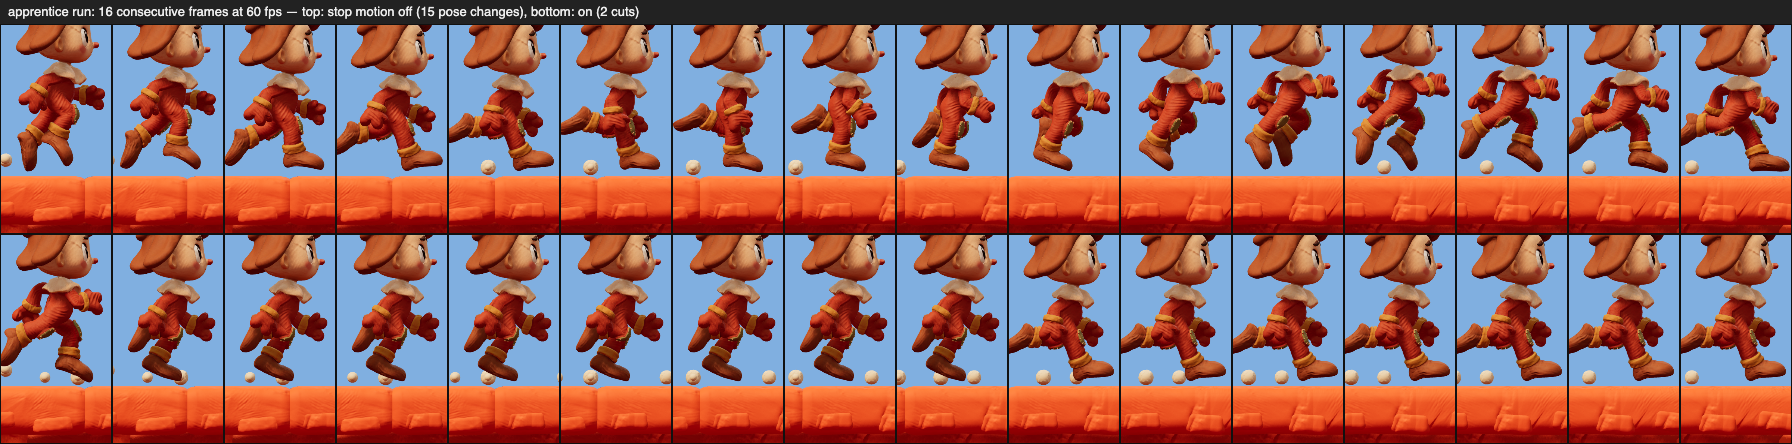
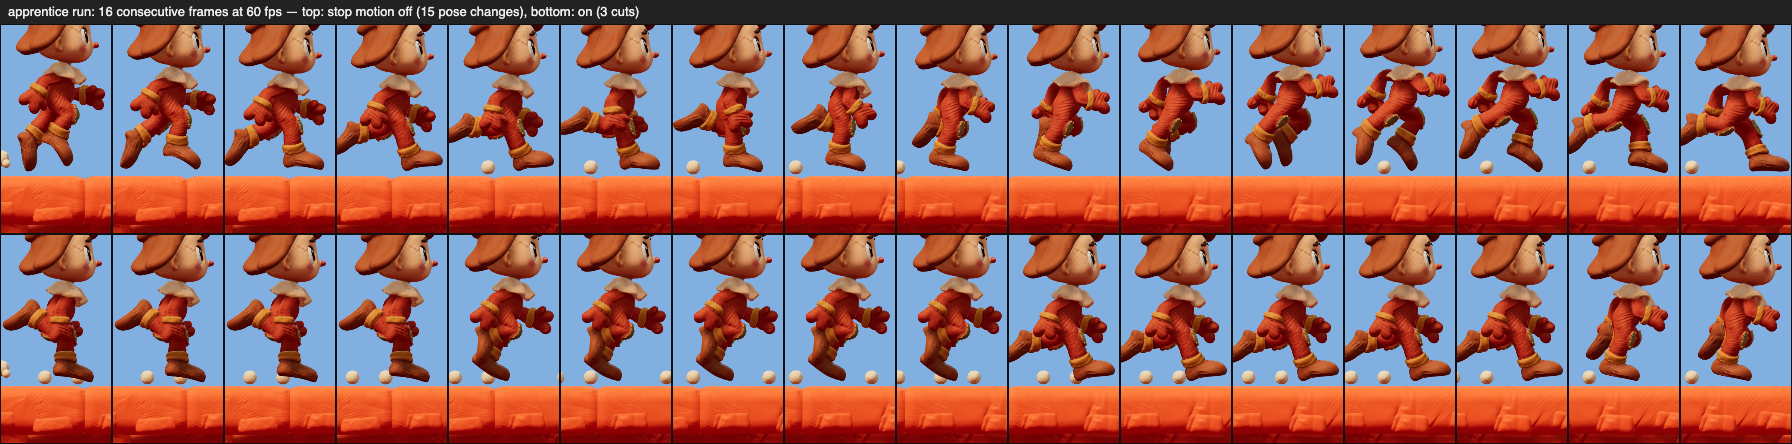
Bake the tuned stop-motion look, and retire Hold position
Tuned by eye in the panel and now the defaults: twelve exposures a second (on
twos — four frames held at sixty, the fifth spent), boil six thousandths of a
unit, wobble three, flicker four per cent, creatures on. Hold position goes —
the switch and the branch in placePuppet — a held pose on a smoothly moving
body is what keeps the game readable, so a puppet's position is never held;
a retired key in an older save is dropped on load. The sheets are retaken at
the new period: fifteen pose changes off, three cuts on, over sixteen frames.

Changed region(s): [[0.0, 0.527, 1.0, 0.8784], [0.0, 0.3514, 0.0312, 0.3806]]

diff --git a/dist/stop-motion.js b/dist/stop-motion.js
@@ -1,17 +1,19 @@
-// Clay stop-motion is shot on threes here: eight poses a second, each held
+// Clay stop-motion is shot on twos here: twelve poses a second, each held
 // until the next, with nothing in between. That hold is the whole tell — a
 // puppet that eases is a cartoon; one that cuts is clay. The simulation, the
 // camera and where every puppet stands stay smooth, because the game still has
 // to read at sixty; only the poses step, and every puppet on the set cuts to
 // its next pose on the same frame, as it would under one camera.
-export const STOP_MOTION_FPS=8;
+export const STOP_MOTION_FPS=12;
 export const BOIL=.006;
 
-// What the Settings panel can turn while the game runs, with the values the
-// look was tuned at. Amounts are kept in whole numbers a slider can show —
+// What the Settings panel can turn while the game runs, at the values the look
+// was tuned to by eye: twelve exposures, the prints crawling six thousandths of
+// a unit, each puppet landing three thousandths off its mark, the lamp four per
+// cent unsteady. Amounts are kept in whole numbers a slider can show —
 // thousandths of a world unit for the boil and the wobble, a percentage for
 // the flicker — and become the clock's units in applyStopMotionTuning.
-export const TUNING_DEFAULTS=Object.freeze({fps:STOP_MOTION_FPS,boil:Math.round(BOIL*1000),creatures:true,hold:false,wobble:0,flicker:0});
+export const TUNING_DEFAULTS=Object.freeze({fps:STOP_MOTION_FPS,boil:Math.round(BOIL*1000),creatures:true,wobble:3,flicker:4});
 export const TUNING_RANGES=Object.freeze({fps:[4,24],boil:[0,20],wobble:[0,30],flicker:[0,8]});
 export function normalizeTuning(saved){
   const t={...TUNING_DEFAULTS};
@@ -21,7 +23,6 @@ export function normalizeTuning(saved){
       if(Number.isFinite(value))t[key]=Math.min(hi,Math.max(lo,Math.round(value)));
     }
     if(typeof saved.creatures==='boolean')t.creatures=saved.creatures;
-    if(typeof saved.hold==='boolean')t.hold=saved.hold;
   }
   return t;
 }
@@ -33,12 +34,12 @@ export function normalizeTuning(saved){
 // flicker hash on. The tunables ride on it too, so every animator that holds
 // the clock sees a slider move on its next frame.
 export const createPuppetClock=()=>({on:false,held:0,frame:0,step:0,stepped:false,
-  fps:STOP_MOTION_FPS,boil:BOIL,creatures:true,hold:false,wobble:0,flicker:0,lit:false});
+  fps:STOP_MOTION_FPS,boil:BOIL,creatures:true,wobble:TUNING_DEFAULTS.wobble/1000,flicker:TUNING_DEFAULTS.flicker/100,lit:false});
 
 // Put the panel's numbers on the running world's clock.
 export function applyStopMotionTuning(w,tuning){
   const t=normalizeTuning(tuning),c=w.puppetClock??=createPuppetClock();
-  c.fps=t.fps;c.boil=t.boil/1000;c.creatures=t.creatures;c.hold=t.hold;c.wobble=t.wobble/1000;c.flicker=t.flicker/100;
+  c.fps=t.fps;c.boil=t.boil/1000;c.creatures=t.creatures;c.wobble=t.wobble/1000;c.flicker=t.flicker/100;
   return c;
 }
 
@@ -48,8 +49,9 @@ const stepping=(clock,creature)=>!!clock?.on&&(!creature||clock.creatures);
 
 // Advance the shared clock by this frame's dt. With the setting off the poses
 // take dt as they always did. With it on, nothing moves until an exposure's
-// worth of time has built up, then all of it is spent at once — the pose lands
-// on the real elapsed time, so a held puppet never falls behind the world.
+// worth of time (a twelfth of a second, as tuned) has built up, then all of it
+// is spent at once — the pose lands on the real elapsed time, so a held puppet
+// never falls behind the world.
 export function tickPuppets(w,dt){
   const c=w.puppetClock??=createPuppetClock();
   c.on=!!w.stopMotion;
@@ -81,20 +83,16 @@ export function heldSample(clock,view,step,read,creature=true){
 const hash=(n,k)=>{const x=Math.sin(n*12.9898+k*78.233)*43758.5453;return x-Math.floor(x);};
 const seed=name=>{let h=0;for(const ch of String(name??''))h=(h*31+ch.charCodeAt(0))%1000;return h;};
 
-// Where a puppet is drawn. Its position is the simulation's, smooth, unless
-// Hold position is on — then it too is read at exposures, so the whole puppet
-// jumps from pose to pose the way a photographed one does. The wobble is the
-// registration error of a real set: a puppet never lands back in exactly the
+// Where a puppet is drawn: the simulation's position, smooth — a held pose on a
+// moving body is what keeps the game readable — plus the wobble, the
+// registration error of a real set. A puppet never lands back in exactly the
 // same place, so each exposure carries its own small offset, constant until
-// the next. Both are only on the clock; off it this returns the live point.
+// the next. Only on the clock; off it this is the live point.
 export function placePuppet(clock,view,x,y,creature=false){
   const at=view.placed??={x:0,y:0,frame:-1,wx:0,wy:0};
-  if(!stepping(clock,creature)){at.x=x;at.y=y;at.wx=at.wy=0;at.frame=-1;return at;}
-  if(!clock.hold||clock.stepped||at.frame<0){at.x=x;at.y=y;}
-  if(clock.wobble>0){
-    if(at.frame!==clock.frame){const n=clock.frame+seed(view.id??'hero');at.wx=(hash(n,4)-.5)*2*clock.wobble;at.wy=(hash(n,5)-.5)*2*clock.wobble;}
-  }else at.wx=at.wy=0;
-  at.frame=clock.frame;
+  at.x=x;at.y=y;
+  if(!stepping(clock,creature)||clock.wobble<=0){at.wx=at.wy=0;at.frame=-1;return at;}
+  if(at.frame!==clock.frame){const n=clock.frame+seed(view.id??'hero');at.wx=(hash(n,4)-.5)*2*clock.wobble;at.wy=(hash(n,5)-.5)*2*clock.wobble;at.frame=clock.frame;}
   return {x:at.x+at.wx,y:at.y+at.wy,frame:at.frame};
 }
 

diff --git a/dist/title-menu.js b/dist/title-menu.js
@@ -64,8 +64,7 @@ function tuner(key,label,iconName,value,unit){
 // Everything the stop-motion look is made of, unfolded under its switch while
 // it is on: exposures a second; the boil of the prints and the wobble of the
 // puppet's registration, both in thousandths of a world unit; the lamp's
-// flicker in per cent; and whether the creatures step and whether a puppet's
-// position holds between exposures along with its pose.
+// flicker in per cent; and whether the creatures step too.
 export function stopMotionTuningMarkup(tuning){
   const t=normalizeTuning(tuning);
   return `<div class="title-tuning" data-tuning="stopmotion">
@@ -74,7 +73,6 @@ export function stopMotionTuningMarkup(tuning){
       ${tuner('wobble','Wobble','move',t.wobble,'‰')}
       ${tuner('flicker','Flicker','sun',t.flicker,'%')}
       <button class="title-setting" data-action="settings-stopmotion-creatures" role="switch" aria-checked="${t.creatures}" aria-label="Creatures step too">${icon('bug')}<span>Creatures too</span><strong>${t.creatures?'On':'Off'}</strong></button>
-      <button class="title-setting" data-action="settings-stopmotion-hold" role="switch" aria-checked="${t.hold}" aria-label="Hold position between exposures">${icon('grab')}<span>Hold position</span><strong>${t.hold?'On':'Off'}</strong></button>
     </div>`;
 }
 
@@ -89,7 +87,7 @@ export function settingsMarkup(soundEnabled,fullscreenActive,{music=.55,effects=
     <div class="title-settings">
       <button class="title-setting" data-action="settings-sound" role="switch" aria-checked="${soundEnabled}" aria-label="Game sound">${icon(soundEnabled?'volume-2':'volume-x')}<span>Sound</span><strong>${soundEnabled?'On':'Off'}</strong></button>
       <button class="title-setting" data-action="settings-rumble" role="switch" aria-checked="${rumble}" aria-label="Vibration and controller rumble">${icon('move-vertical')}<span>Rumble</span><strong>${rumble?'On':'Off'}</strong></button>
-      <button class="title-setting" data-action="settings-stopmotion" role="switch" aria-checked="${stopMotion}" aria-label="Stop-motion animation, eight poses a second">${icon('camera')}<span>Stop motion</span><strong>${stopMotion?'On':'Off'}</strong></button>
+      <button class="title-setting" data-action="settings-stopmotion" role="switch" aria-checked="${stopMotion}" aria-label="Stop-motion animation, twelve poses a second">${icon('camera')}<span>Stop motion</span><strong>${stopMotion?'On':'Off'}</strong></button>
       ${stopMotion?stopMotionTuningMarkup(stopMotionTuning):''}
       <button class="title-setting" data-action="fullscreen" data-fullscreen="label" aria-pressed="${fullscreenActive}">${icon(fullscreenActive?'minimize':'expand')}<span>${fullscreenActive?'Exit fullscreen':'Fullscreen'}</span></button>
       <button class="title-setting" data-action="help">${icon('gamepad-2')}<span>How to play</span></button>

diff --git a/dist/hero.js b/dist/hero.js
@@ -230,7 +230,7 @@ export function animateHero(w,game,dt,alpha=1){
   // spring, the lean — takes this one step, so under stop motion the whole pose
   // holds and cuts together rather than the clips stepping inside a body that
   // still glides. The root's position is set from the simulation and stays smooth,
-  // unless the Hold position setting asks for it to step too (placePuppet).
+  // give or take the registration wobble each exposure (placePuppet).
   const step=paused?0:puppetStep(w.puppetClock,dt),air=!p.groundId;
   // Drawn `alpha` of the way between the last two ticks (camera.js `between`),
   // as the decks are, so a rider and their deck move as one.
@@ -290,7 +290,7 @@ export function animateHero(w,game,dt,alpha=1){
     c.mixer.update(step);
     if(!paused)boilPuppet(c.asset,w.puppetClock);
     // A small foot-anchored response complements, rather than distorts, the rig.
-    // The spring is stiff enough that one Euler step of an eighth of a second
+    // The spring is stiff enough that one Euler step of a twelfth of a second
     // — a stop-motion exposure — rings it against its clamp for good, so it
     // is walked in the simulation's own ticks however long the frame held.
     for(let left=step;left>0;left-=SPRING_DT){

diff --git a/dist/app.js b/dist/app.js
@@ -403,12 +403,11 @@ $('dialog-content').addEventListener('click',e=>{
     if(saved.stopMotion)b.insertAdjacentHTML('afterend',stopMotionTuningMarkup(saved.stopMotionTuning));
     icons();
   }
-  if(a==='settings-stopmotion-creatures'||a==='settings-stopmotion-hold'){
-    const key=a==='settings-stopmotion-creatures'?'creatures':'hold',t=saved.stopMotionTuning;
-    t[key]=!t[key];if(world)applyStopMotionTuning(world,t);persist();
-    b.setAttribute('aria-checked',String(t[key]));
-    b.innerHTML=key==='creatures'?`${icon('bug')}<span>Creatures too</span><strong>${t.creatures?'On':'Off'}</strong>`
-      :`${icon('grab')}<span>Hold position</span><strong>${t.hold?'On':'Off'}</strong>`;icons();
+  if(a==='settings-stopmotion-creatures'){
+    const t=saved.stopMotionTuning;
+    t.creatures=!t.creatures;if(world)applyStopMotionTuning(world,t);persist();
+    b.setAttribute('aria-checked',String(t.creatures));
+    b.innerHTML=`${icon('bug')}<span>Creatures too</span><strong>${t.creatures?'On':'Off'}</strong>`;icons();
   }
   if(a==='settings-character')chooseCharacter(b.dataset.character);
   if(a==='help')help();

diff --git a/README.md b/README.md
@@ -32,7 +32,7 @@ Seven supplied models were about 95% texture, and are repacked with the same met
 
 **Gamepads and haptics are supported.** A standard-mapping controller steers with the left stick or d-pad, jumps on A/Y, stomps on B/X/RT/d-pad-down and pauses on Start; on the title, A or Start begins. Keyboard keeps priority, so a stick resting off centre can never fight a held key. Phone vibration and controller rumble fire from the same event bus the particles use, scaled by impact and rate-limited so a coin run cannot stack into one buzz — `dist/gamepad.js`, `dist/haptics.js`, covered by `tests/gamepad.mjs`. **Music and effects now have independent sliders**, on their own Web Audio buses, so the soundtrack can be silenced without losing the landing and pickup cues; music defaults below effects. Rumble has its own switch.
 
-**Stop motion is a switch in the same panel, off until chosen.** Clay animation is shot on threes here — eight poses a second, each held until the next — and that hold is what makes a puppet read as clay rather than cartoon. With the switch on, one clock on the world (`dist/stop-motion.js`) holds every puppet's animation time and spends it whole once an eighth of a second has built up, so the hero and every creature — claylings, bats, spitters, drifters, spore puffs and the dream's own — cut to their next pose on the same frame; the hero's turn, gait, crossfades, impact squash and lean all take that one step, so the whole figure holds and cuts together, and a creature whose pose reads the simulation directly (a drifter's roll, a spitter's wind-up, a puff's leap) reads it as it stood at the last exposure. The simulation, the camera and where each puppet stands stay smooth, because the game still has to read at sixty. On every exposure each puppet's clay relief is nudged a hair through the offset its shader already reads, so its fingerprints crawl between frames the way a handled puppet's do; off, the offsets go back and every frame eases as before. The impact squash spring is walked in simulation ticks however long the frame held — fed the whole eighth in one Euler step it rang against its clamp for ever. The title's hero and the completion stage expose on the same clock. **While the switch is on, the look's tuning unfolds under it**: exposures a second (4–24), the boil and a registration wobble (both in thousandths of a world unit; the wobble is a fresh small offset of each puppet per exposure, nought by default), the lamp's flicker (per cent of the theme's key light per exposure, nought by default), and two switches — whether the creatures step too, and whether a puppet's position holds between exposures along with its pose. Every number rides on the shared clock, so a slider moves the running world on its next frame, and all of it saves on the device. `tests/stop-motion.mjs` holds the clock to seven frames held and the eighth spent, every knob reaching the clock, the hero's pose, blends and skin cutting together while its feet keep moving, a landing that settles, and off being exactly what it was; `node scripts/review-stop-motion.cjs` lays consecutive frames at sixty, off above on, into `docs/stop-motion/` for the hero and a clayling, with a landing sheet one tile per exposure and two consecutive exposures close on the skin for the boil.
+**Stop motion is a switch in the same panel, off until chosen.** Clay animation is shot on twos here — twelve poses a second, each held until the next — and that hold is what makes a puppet read as clay rather than cartoon. With the switch on, one clock on the world (`dist/stop-motion.js`) holds every puppet's animation time and spends it whole once a twelfth of a second has built up, so the hero and every creature — claylings, bats, spitters, drifters, spore puffs and the dream's own — cut to their next pose on the same frame; the hero's turn, gait, crossfades, impact squash and lean all take that one step, so the whole figure holds and cuts together, and a creature whose pose reads the simulation directly (a drifter's roll, a spitter's wind-up, a puff's leap) reads it as it stood at the last exposure. The simulation, the camera and where each puppet stands stay smooth, because the game still has to read at sixty. On every exposure each puppet's clay relief is nudged a hair through the offset its shader already reads, so its fingerprints crawl between frames the way a handled puppet's do; off, the offsets go back and every frame eases as before. The impact squash spring is walked in simulation ticks however long the frame held — fed a whole exposure in one Euler step it rang against its clamp for ever. The title's hero and the completion stage expose on the same clock. **While the switch is on, the look's tuning unfolds under it**, at the values it was tuned to by eye: exposures a second (4–24, tuned to 12), the boil and a registration wobble (both in thousandths of a world unit — 6 and 3; the wobble is a fresh small offset of each puppet per exposure), the lamp's flicker (per cent of the theme's key light per exposure, 4), and whether the creatures step too (they do). A puppet's position is never held: a held pose on a smoothly moving body is what keeps the game readable. Every number rides on the shared clock, so a slider moves the running world on its next frame, and all of it saves on the device. `tests/stop-motion.mjs` holds the clock to four frames held and the fifth spent, every knob reaching the clock, the hero's pose, blends and skin cutting together while its feet keep moving, a landing that settles, and off being exactly what it was; `node scripts/review-stop-motion.cjs` lays consecutive frames at sixty, off above on, into `docs/stop-motion/` for the hero and a clayling, with a landing sheet one tile per exposure and two consecutive exposures close on the skin for the boil.
 
 The page finally previews when it is shared: Open Graph and Twitter card tags, a 1200x630 card built from the shipped title key art and logo, favicons and an Apple touch icon cropped from the logo's own C, and a web app manifest so the game installs to a phone home screen. `scripts/prepare-brand.py` regenerates all of them from the title artwork. The production build keeps those five files unhashed beside `index.html`, because a manifest resolves its icons and its scope against its own URL.
 
